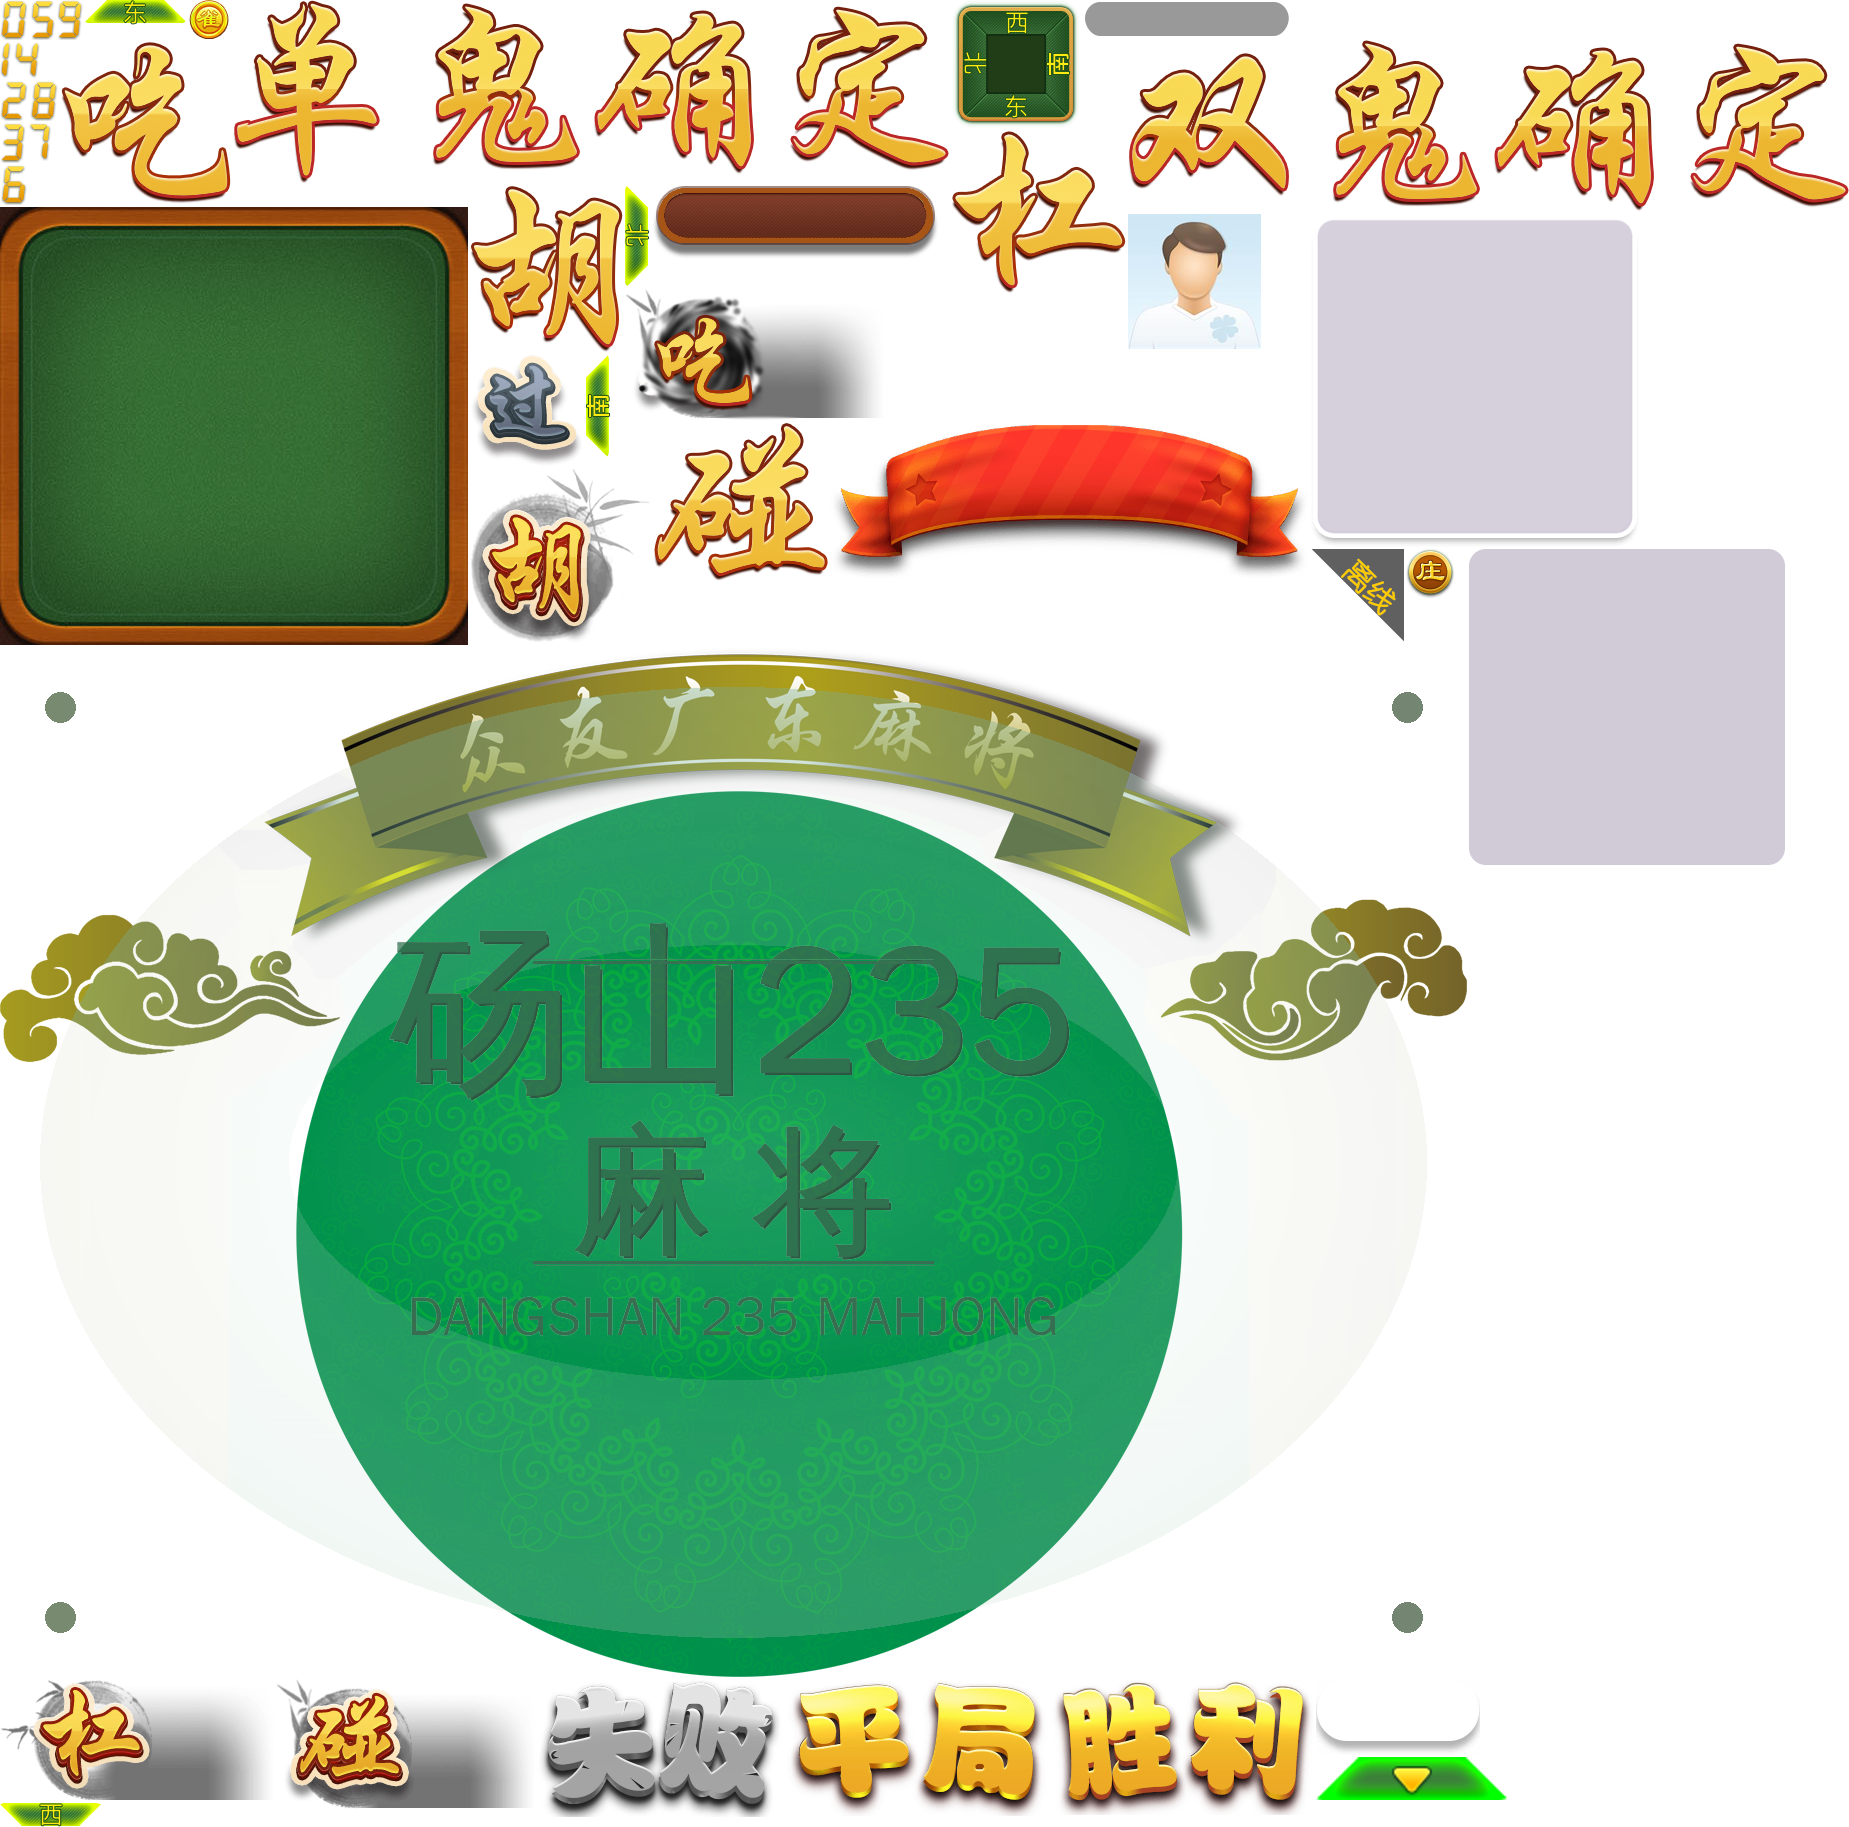
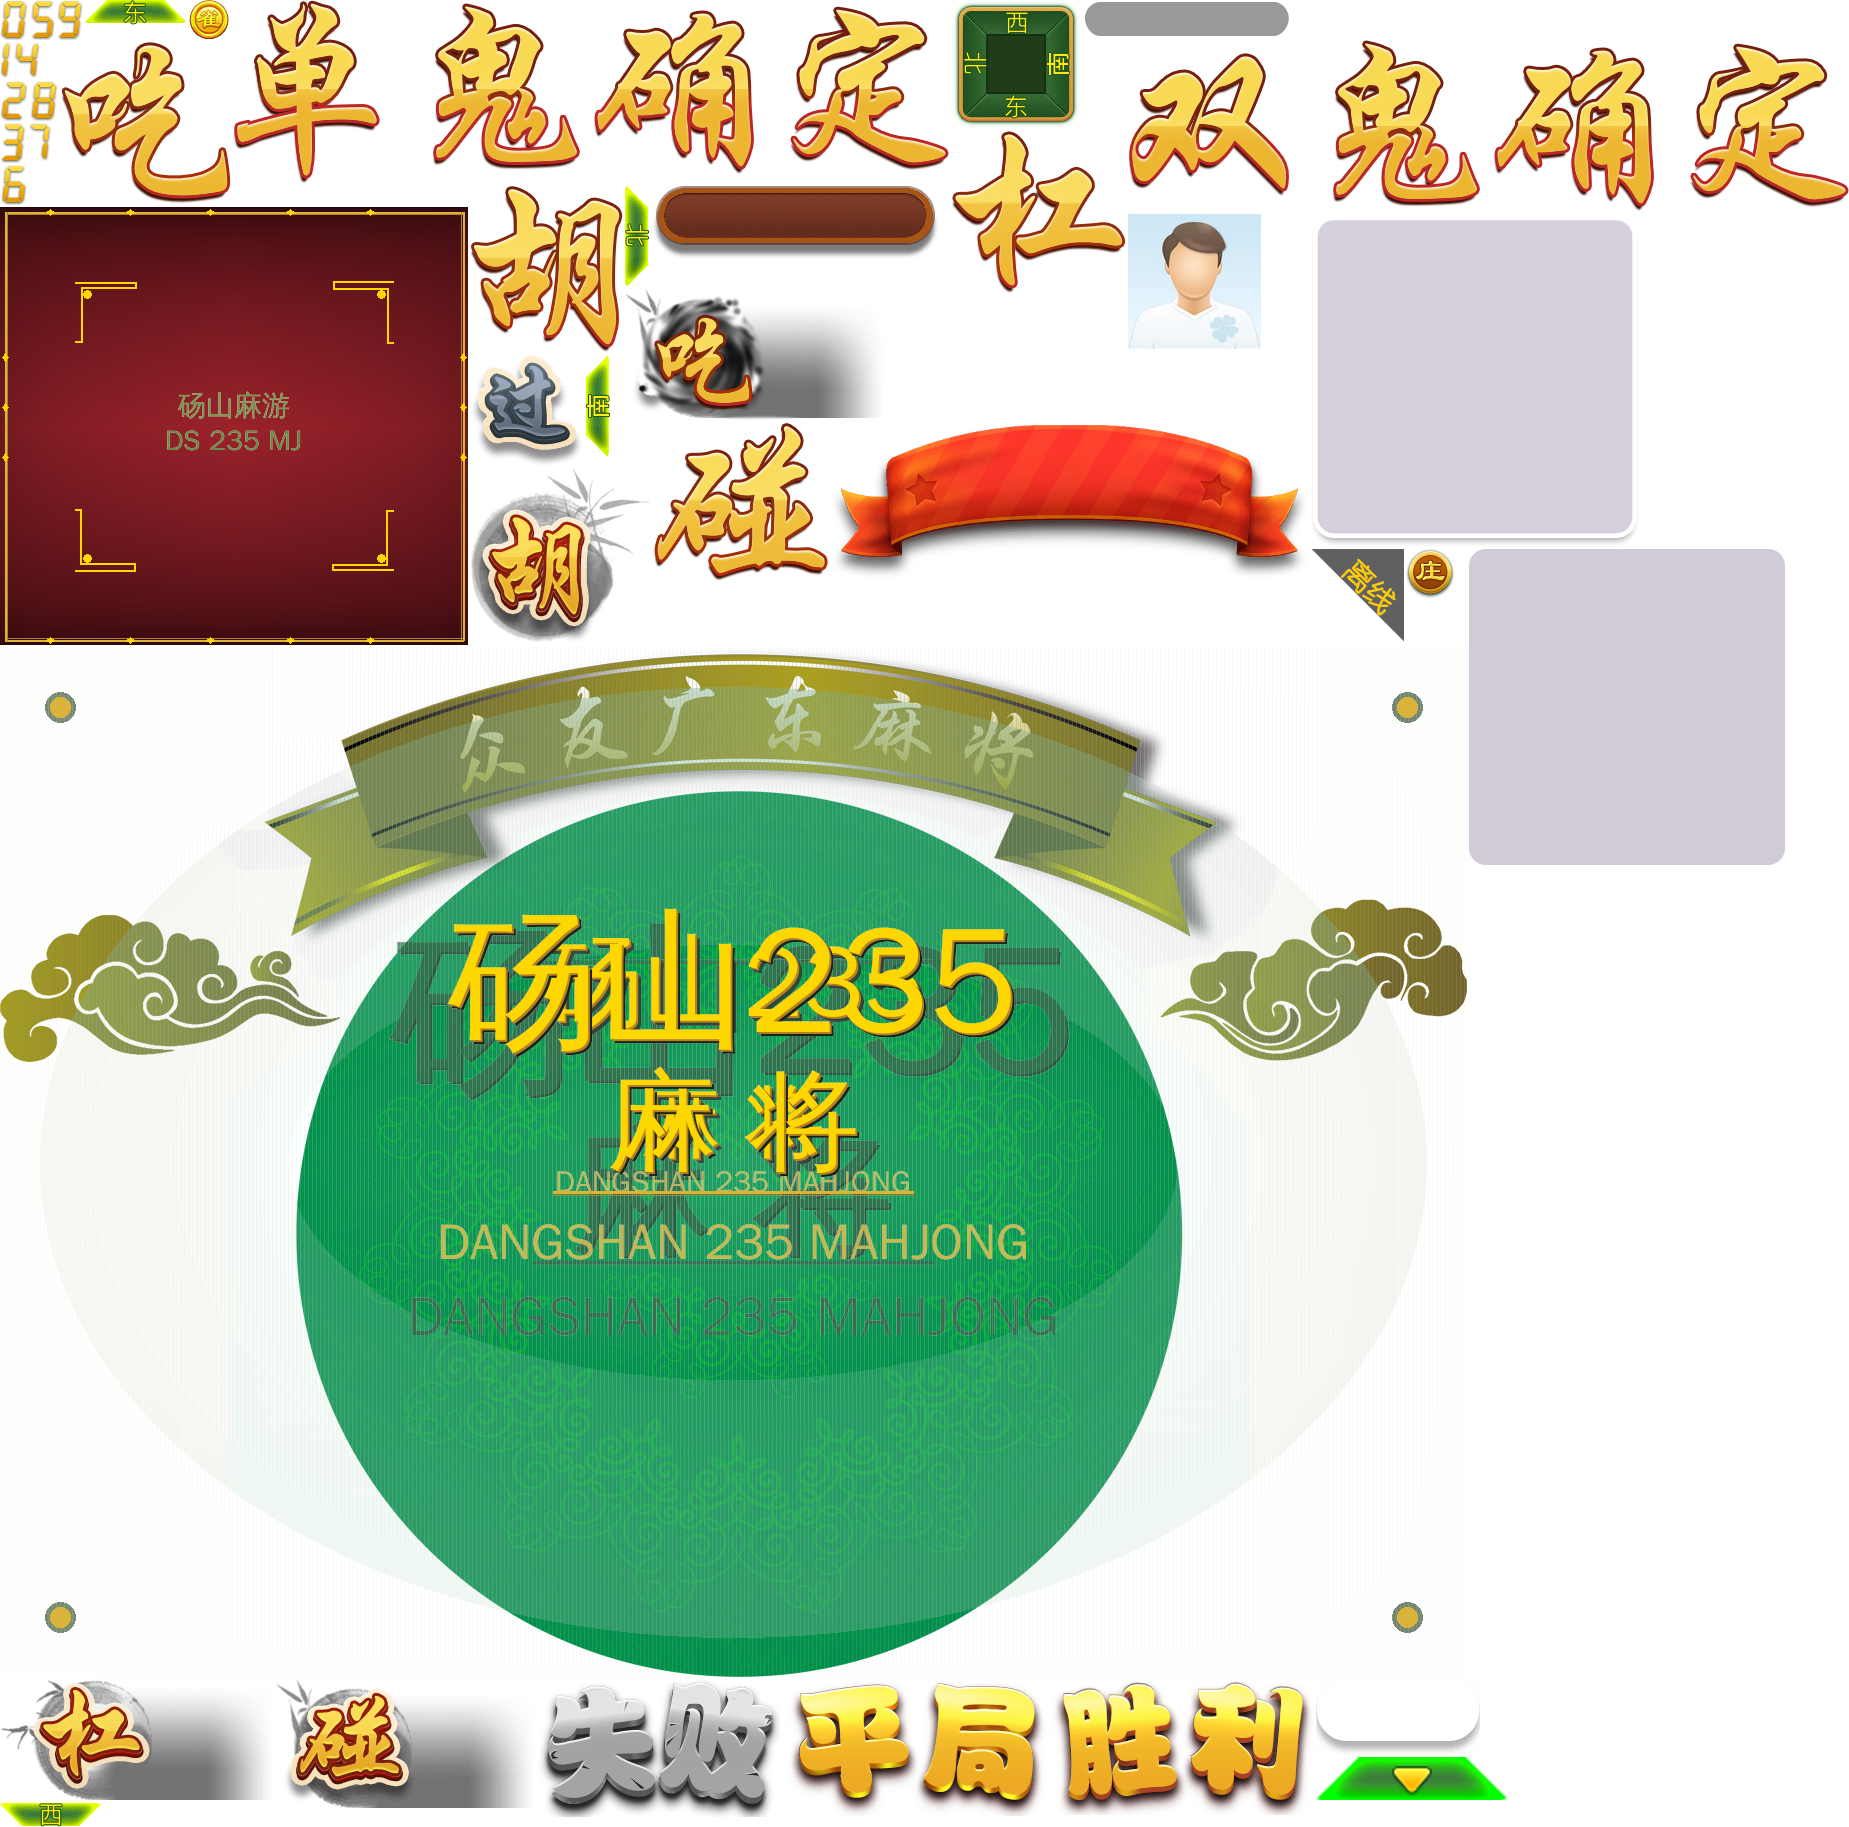
feat: 加载页全屏1920x1080 + 房间背景完全更换为暗红烫金风格

diff --git a/client/cordova/www/myLaya.min.js b/client/cordova/www/myLaya.min.js
@@ -41451,7 +41451,7 @@ var Laya=window.Laya=(function(window,document){
 		}
 
 		__static(LoadingUI,
-		['uiView',function(){return this.uiView={"type":"View","props":{"width":600,"height":1080},"child":[{"type":"Image","props":{"y":0,"x":0,"width":600,"var":"bg","skin":"ui/loading/bg.jpg","height":"1080"}},{"type":"ProgressBar","props":{"y":999,"x":346,"var":"progressBar","skin":"ui/loading/progress.png","sizeGrid":"11,7,12,7"}},{"type":"Label","props":{"y":1002,"x":346,"width":252,"var":"progressBarLabel","text":"加载中 100%","height":38,"fontSize":24,"color":"#ffffff","align":"center"}}]};}
+		['uiView',function(){return this.uiView={"type":"View","props":{"width":1920,"height":1080},"child":[{"type":"Image","props":{"y":0,"x":0,"width":1920,"var":"bg","skin":"ui/loading/bg.jpg","height":"1080"}},{"type":"ProgressBar","props":{"y":999,"x":830,"var":"progressBar","skin":"ui/loading/progress.png","sizeGrid":"11,7,12,7"}},{"type":"Label","props":{"y":1002,"x":830,"width":260,"var":"progressBarLabel","text":"加载中 100%","height":38,"fontSize":24,"color":"#ffffff","align":"center"}}]};}
 		]);
 		return LoadingUI;
 	})(View)